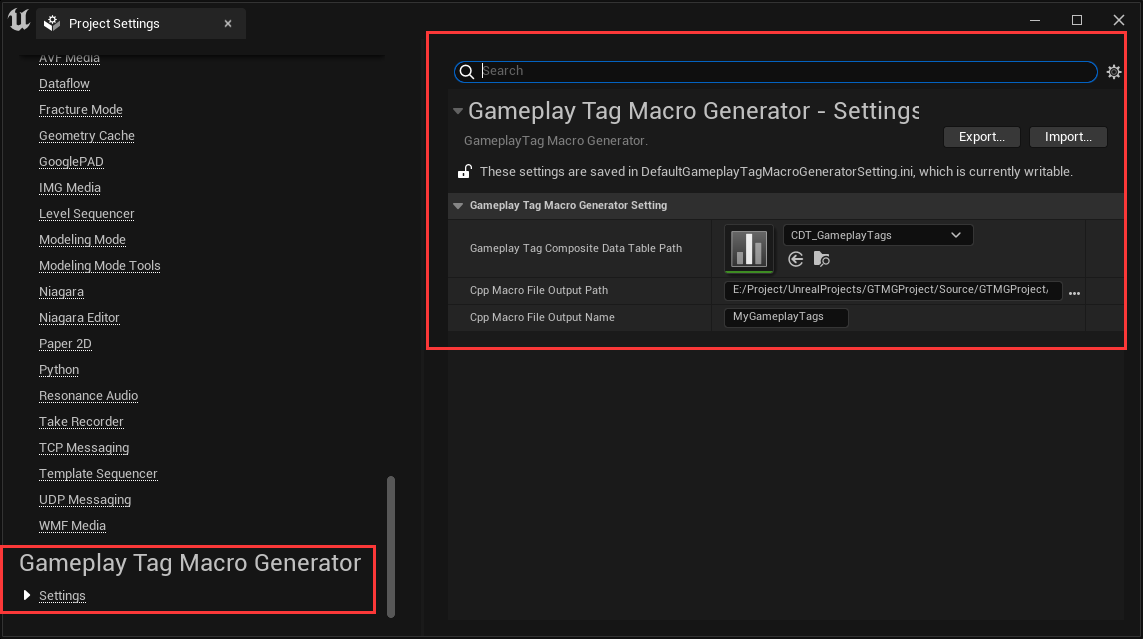
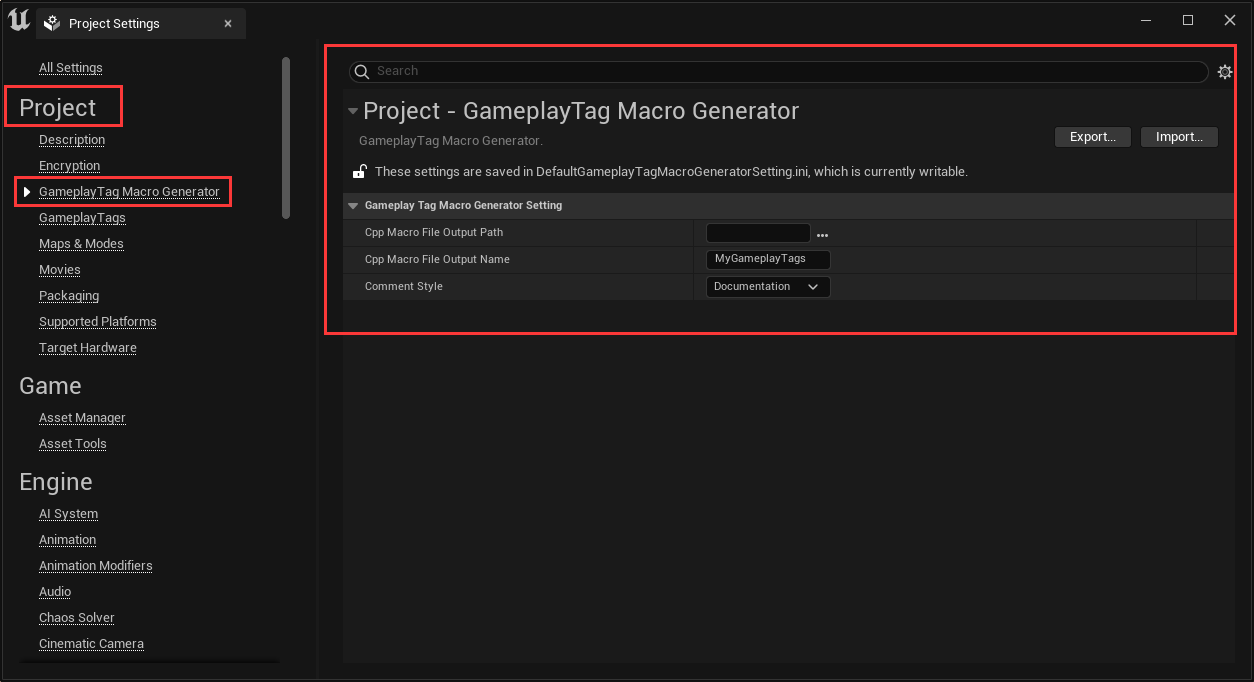
update 更新文档

diff --git a/README.md b/README.md
@@ -40,13 +40,23 @@ Unreal Engine based plugin for generate GameplayTag macro code.
 
     **Dev Comment** will be annotated above the macro.
 
-6. Open CDT_GameplayTags, add DT_CharacterGameplayTag to Parent Tables. here can add many GameplayTagDataTable.
+6. Open CDT_GameplayTags, add DT_CharacterGameplayTag to Parent Tables. here can add many GameplayTagDataTable. 
 
     ![Screenshot5](https://raw.githubusercontent.com/shpz/GameplayTagMacroGenerator/master/images/Screenshot5.png)
 
-7. After saved, open Main Menu - Project Settings - GameplayTag Macro Generator - Settings, fill in settings.
+    After, add CDT_GameplayTags to Project Settings - Project - GameplayTags - GameplayTagTableList
+
+7. After saved, open Main Menu - Project Settings - Project - GameplayTag Macro Generator, fill in settings.
 
     ![Screenshot6](https://raw.githubusercontent.com/shpz/GameplayTagMacroGenerator/master/images/Screenshot6.png)
+
+    There are three settings here:
+
+    **CppMacroFileOutputPath**: file output path, select the path for the header file in a project
+
+    **CppMacroFileOutputName**: file name, default to MyGameplayTags, can be modified at will
+
+    **CommentStyle**: Comment style, default to document comment, with two options: document comment and line comment
 
 8. Click ![LOGO](https://raw.githubusercontent.com/shpz/GameplayTagMacroGenerator/master/images/Icon20.png "LOGO") generate macro file, then you can obtain the target GameplayTag through a macro in code.
 
